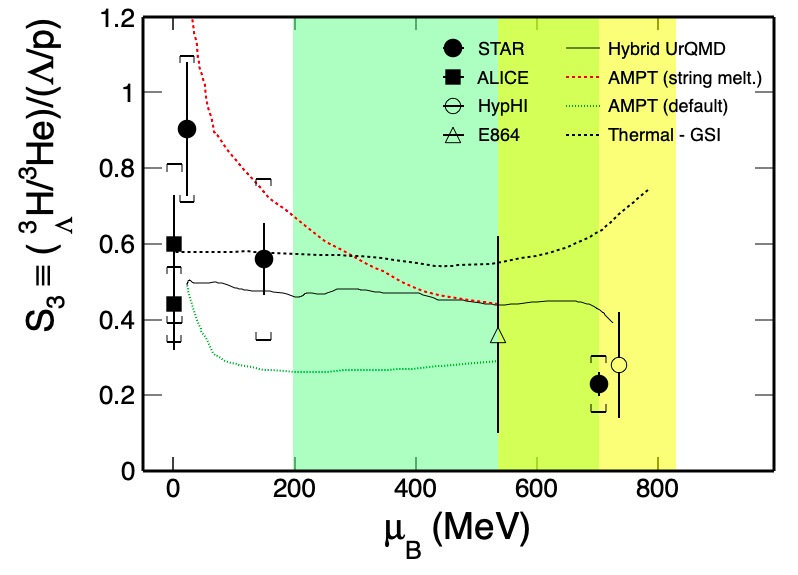
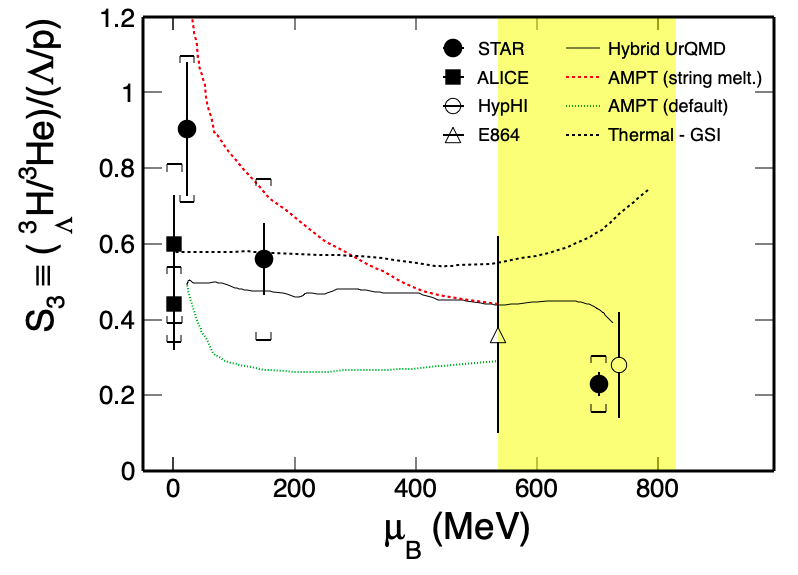
Highlight (BES) removed

Changed region(s): [[0.3609, 0.0296, 0.7519, 0.8278]]

diff --git a/Hypernuclei/s3.C b/Hypernuclei/s3.C
@@ -64,7 +64,7 @@ void s3(){
   h0->SetMinimum(y1);
   h0->Draw();
 
-  drawColorBox(3.0, y1, 19.6, y2, kGreen-4, 0.3);
+  //  drawColorBox(3.0, y1, 19.6, y2, kGreen-4, 0.3);
   drawColorBox(2.0, y1, 5.0, y2, 5, 0.5);
   
   // const Int_t lineColor[NM] = {kBlack,kRed,kGreen+2,kBlue,kBlack};
@@ -137,7 +137,7 @@ void s3(){
   h0->SetMinimum(y1);
   h0->Draw();
 
-  drawColorBox(fMuB->Eval(19.6), y1, fMuB->Eval(3.0), y2, kGreen-4, 0.3);
+  //  drawColorBox(fMuB->Eval(19.6), y1, fMuB->Eval(3.0), y2, kGreen-4, 0.3);
   drawColorBox(fMuB->Eval(5.0), y1, fMuB->Eval(2.0), y2, 5, 0.5);
 
   for(int i=0;i<NM;i++) {
